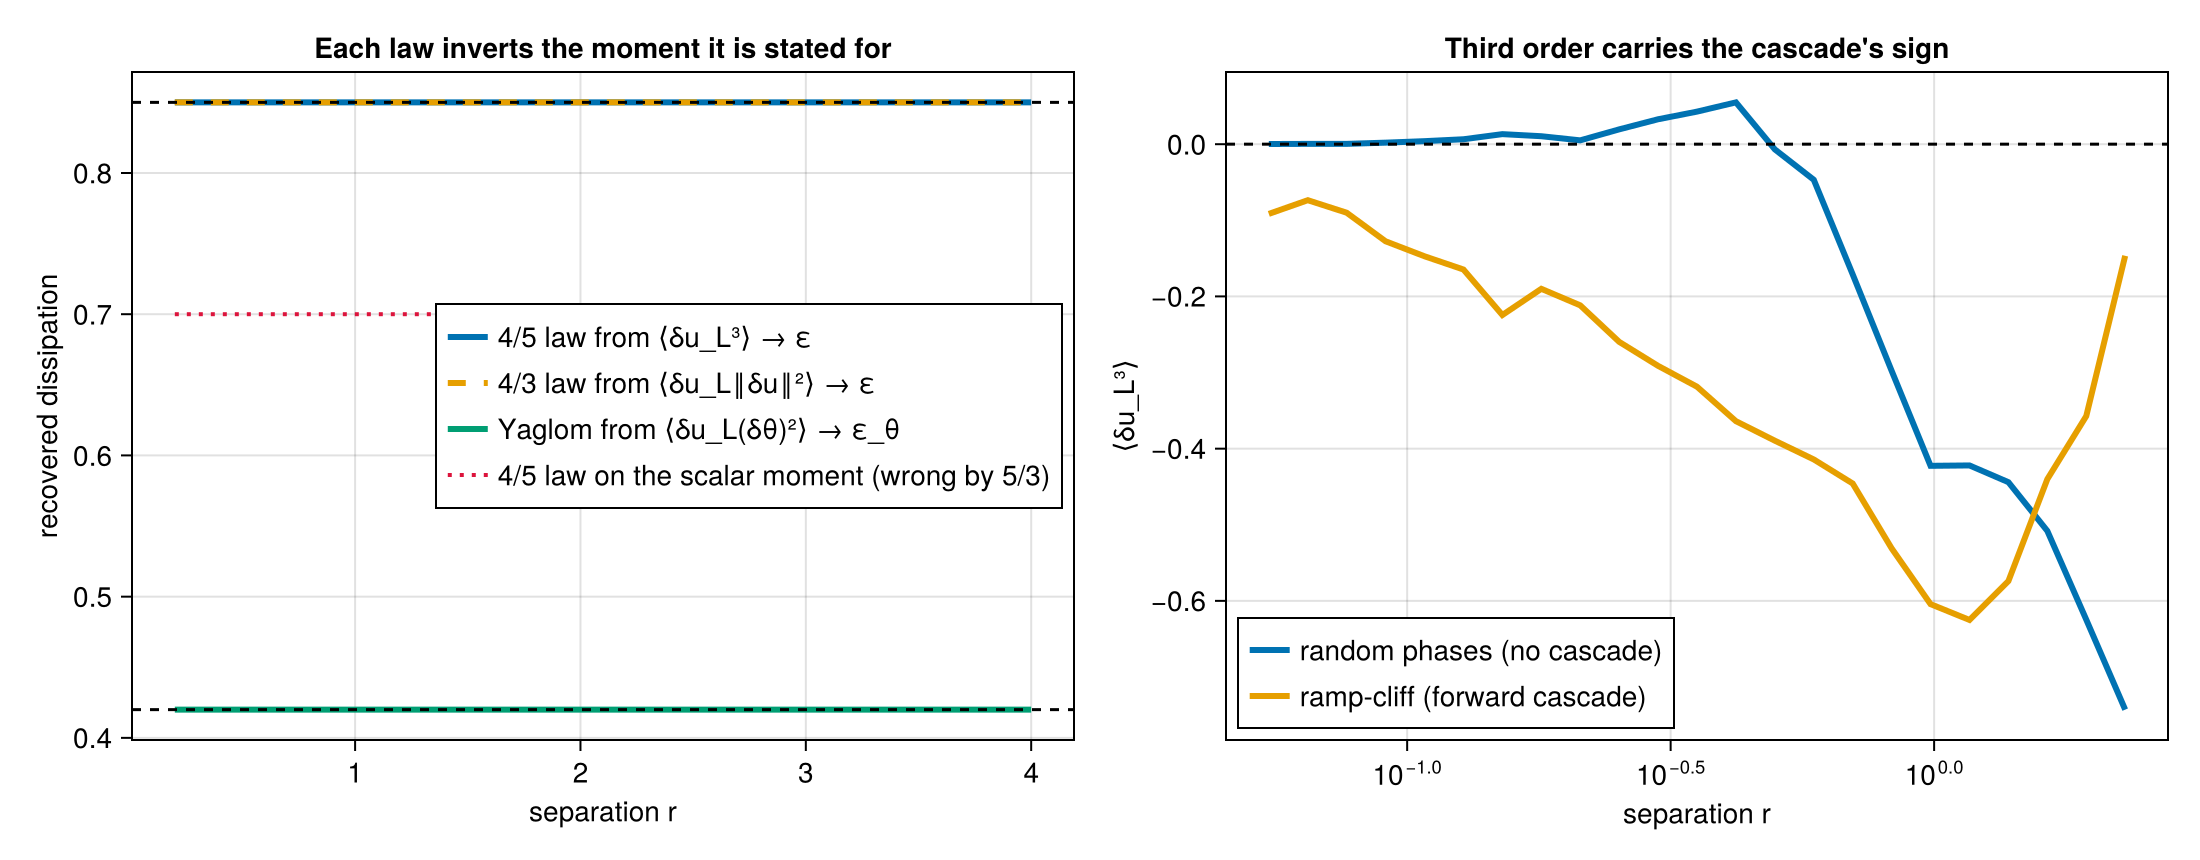
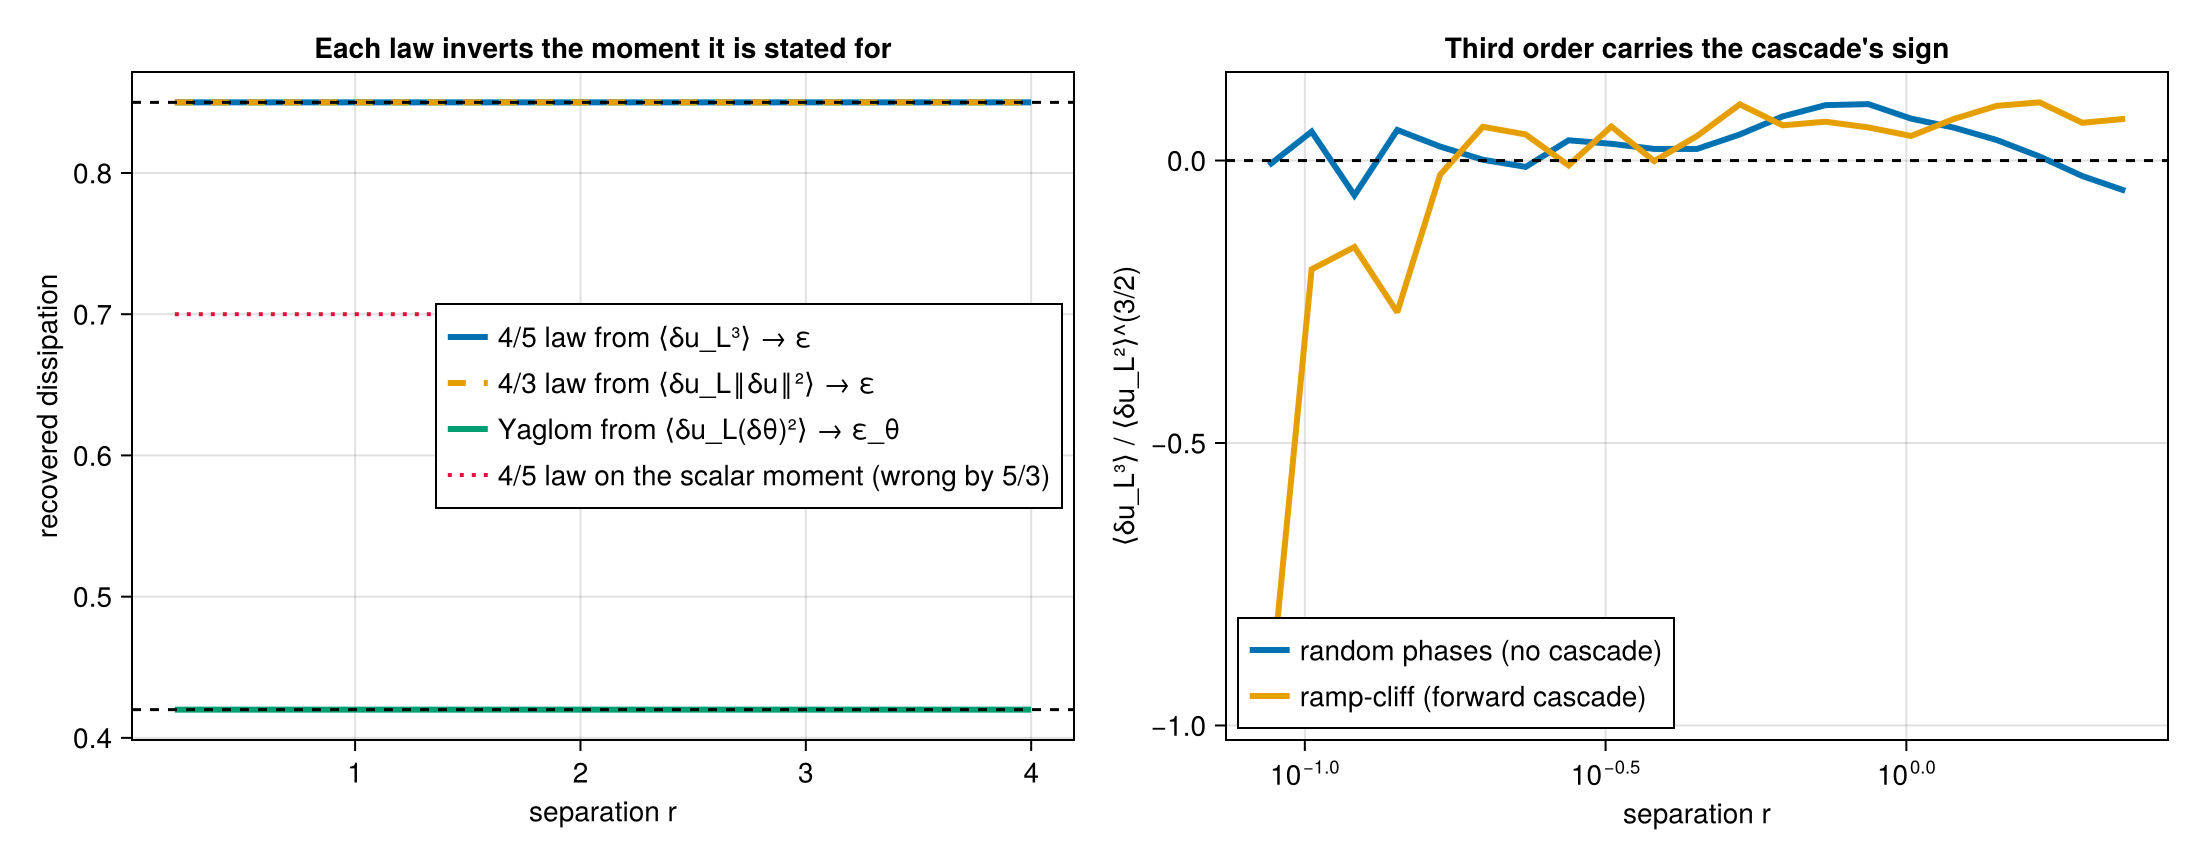
Add feature figures for gridded, spherical, culling, flux and covariance paths
Six further figures and their README sections:

- sf_gridded_algorithms: transform vs lag sweep, agreement to round-off plus
  the cost of each across grid sizes
- sf_advective_flux: the advective structure function with its spectral flux,
  and the J1 kernel against its closed form
- sf_exact_laws: the 4/5, 4/3 and Yaglom inversions each recovering their
  prescribed constant, the 5/3 mispairing, and the cascade sign
- sf_spherical: parallel transport vs an untransported frame (30 orders), and
  the lat-lon fast path at 147x with pair counts exactly equal
- sf_culling: 1.4x to 55x as the cutoff tightens, pair counts identical at every one
- sf_covariance: C(r) = C(0) - D(r)/2, and why positive-definiteness is checked
  rather than assumed

generate_feature_figures.jl generates all eleven; Distances, LinearAlgebra,
Bessels, FFTW, SpectralBackends and StaticArrays added to its environment.

diff --git a/README.md b/README.md
@@ -467,7 +467,43 @@ where $\langle \cdot \rangle$ is ensemble/spatial average over all displacement 
 
 *A `Fields(vectors = (u,), scalars = (θ,))` bundle computes velocity, tracer and mixed moments in one pair pass. Right: `⟨δu_L (δθ)²⟩`, the mixed moment Yaglom's law inverts for the scalar-variance dissipation.*
 
-*Regenerate the five figures above: `julia --project=docs/generate_assets docs/generate_assets/generate_feature_figures.jl`.*
+### Gridded Fast Paths — the transform against the lag sweep
+
+![Transform vs lag sweep](docs/src/assets/sf_gridded_algorithms.png)
+
+*Two exact algorithms for one definition. Left: they agree to double-precision round-off on the same data — the lag sweep visits each lag and reduces over cells, while the transform never forms a lag until after the inverse transform, so a defect in either shows up immediately. Right: what each costs. The sweep is `O(n_lags · cells)` and the transform `O(cells log cells)` however many lags are wanted, so the gap widens with grid size; `AutoSpectralBackend()` costs both and picks the cheaper, which at small cutoffs is the sweep.*
+
+### Advective Structure Functions and Spectral Flux (Bessel methods)
+
+![Advective structure function and flux](docs/src/assets/sf_advective_flux.png)
+
+*Left: `⟨δu · δ𝓐ᵤ⟩` for a 2-D field, with the spectral flux `Π(K) = −(K/2)∫ SF_A J₁(Kr) dr` overlaid — the relation holds **without assuming isotropy**, which is what these estimators are for. Right: the flux kernel against a closed form. Since `∫₀^R J₁(Kr)dr = (1 − J₀(KR))/K`, a constant advective structure function must give exactly `−(c/2)(1 − J₀(KR))`, settling on `−c/2`. That pins the kernel and the prefactor with nothing fitted — which matters, because a flux wrong by a constant or a sign still looks like a cascade.*
+
+### The Third-Order Exact Laws
+
+![Exact laws](docs/src/assets/sf_exact_laws.png)
+
+*Left: each law inverts the moment it is stated for — 4/5 from `⟨δu_L³⟩`, 4/3 from `⟨δu_L‖δu‖²⟩`, Yaglom from `⟨δu_L(δθ)²⟩` — each recovering its prescribed constant flat in `r`. The red line is the trap the API guards against: applying the four-fifths law to the scalar moment is wrong by exactly 5/3. Right: third-order moments carry the cascade's sign. A random-phase field has vanishing odd moments; a ramp-cliff (shock) field is strongly negatively skewed at small separations — the forward-cascade sign the 4/5 law encodes.*
+
+### Spherical Geometry — parallel transport, and the lat-lon fast path
+
+![Spherical geometry](docs/src/assets/sf_spherical.png)
+
+*Left: solid-body rotation on a sphere has an identically zero longitudinal increment at every separation and latitude. Computed in the geodesic frame the ratio sits at machine zero (floored at 1e-30 for the log axis); treating lon/lat as a plane instead puts ~90 % of the energy into a quantity whose true value is zero — a **30-order** separation, and the reason the package transports increments rather than differencing raw coordinates. Right: on a lat-lon grid the geodesic frame is zonally invariant, so the geometry is computed once per (latitude pair, longitude offset) instead of once per pair — **147× faster** than the unstructured pair loop here, with **pair counts exactly equal**.*
+
+### Culling — cost falls with the cutoff, the answer never moves
+
+![Culling](docs/src/assets/sf_culling.png)
+
+*When the largest bin edge bounds the separations of interest, pairs beyond it need never be enumerated. Speedups from 1.4× to **55×** as `r_max` tightens, at N = 20 000 — and the pair counts are **identical to the uncalled sweep at every cutoff**, because culling changes which pairs are visited, not which pairs count. `AutoCulling()` is the default and declines where it cannot be exact.*
+
+### Covariance from a Structure Function
+
+![Covariance](docs/src/assets/sf_covariance.png)
+
+*Left: a structure function is twice a variogram, so `C(r) = C(0) − D(r)/2` recovers the covariance exactly — given the variance, which `D(r)` is blind to and which must be supplied. Right: a covariance matrix must be positive semi-definite, and **interpolating a positive-definite kernel does not preserve that**. The error falls as the square of the sampling spacing, so an under-resolved covariance cannot support a valid matrix; `covariance_matrix` checks rather than assumes, and its message distinguishes "sampled too coarsely" from "not a kernel at all".*
+
+*Regenerate the eleven figures above: `julia --project=docs/generate_assets docs/generate_assets/generate_feature_figures.jl`.*
 
 ---
 
